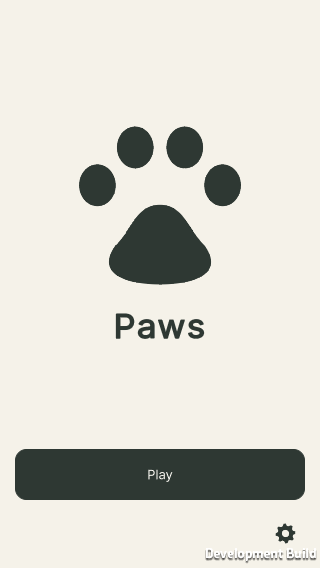
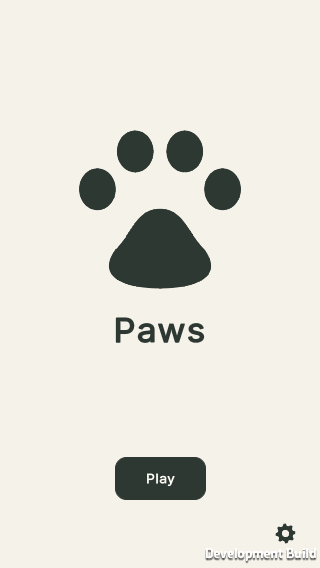
fix(menu): match Play to approved title width (#76)

diff --git a/UnityProject/Assets/CatsAndArrows/Tests/EditMode/MenuPresentationTests.cs b/UnityProject/Assets/CatsAndArrows/Tests/EditMode/MenuPresentationTests.cs
@@ -115,6 +115,14 @@ namespace CatsAndArrows.Tests
                 Assert.That(shell.Q("menu-languages"), Is.Null);
                 Assert.That(shell.Q("menu-paw").worldBound.yMax, Is.LessThan(shell.Q("menu-title").worldBound.yMin));
                 foreach (var name in new[] { "menu-start", "menu-settings" }) AssertTarget(shell.Q<Button>(name), safe);
+                var play = shell.Q<Button>("menu-start");
+                var title = shell.Q<Label>("menu-title");
+                var titleTextWidth = title.MeasureTextSize(title.text, 0, VisualElement.MeasureMode.Undefined,
+                    0, VisualElement.MeasureMode.Undefined).x;
+                Assert.That(play.worldBound.width, Is.EqualTo(titleTextWidth).Within(1), "Play matches Paws text width, excluding label padding");
+                Assert.That(play.worldBound.center.x, Is.EqualTo(title.worldBound.center.x).Within(1), "Play remains centered");
+                Assert.That(play.worldBound.height, Is.EqualTo(52).Within(1));
+                Assert.That(play.resolvedStyle.unityFontStyleAndWeight, Is.EqualTo(FontStyle.Bold));
                 var gear = shell.Q("menu-settings").worldBound;
                 Assert.That(gear.center.x, Is.GreaterThan(safe.center.x));
                 Assert.That(gear.yMax, Is.GreaterThan(safe.yMax - 8));

diff --git a/UnityProject/Assets/CatsAndArrows/UI/GameShellView.cs b/UnityProject/Assets/CatsAndArrows/UI/GameShellView.cs
@@ -264,7 +264,11 @@ namespace CatsAndArrows.UI
             footer.style.flexShrink = 0; footer.style.paddingBottom = 64;
             var play = MakeButton("menu-start", "game.start", StartPlaying);
             play.style.backgroundColor = BoardSymbolElement.Ink; play.style.color = PortraitBoardView.Tile;
-            play.style.height = 62;
+            play.style.height = 52;
+            play.style.alignSelf = Align.Center;
+            play.style.unityFontStyleAndWeight = FontStyle.Bold;
+            title.RegisterCallback<GeometryChangedEvent>(_ =>
+                play.style.width = title.MeasureTextSize(title.text, 0, MeasureMode.Undefined, 0, MeasureMode.Undefined).x);
             play.style.borderTopLeftRadius = play.style.borderTopRightRadius = 14;
             play.style.borderBottomLeftRadius = play.style.borderBottomRightRadius = 14;
             footer.Add(play);

diff --git a/docs/TESTING.md b/docs/TESTING.md
@@ -64,6 +64,17 @@ Repository validation, whitespace and all
 **36** Python runner contracts pass. Independent QA reports no blocking findings
 following code and native screenshot review.
 
+Owner-approved Play refinement (2026-10-20): button width matches the rendered
+Paws text, height is 52 logical units and its localized label is bold. Pinned
+compilation passed (`compile.Ys3uSL`), focused **72/72** passed
+(`issue76-focused.2MC6W5`), and required full EditMode **497/497** passed
+(`editmode.WY5AA9`), all with successful editor exits and no failed/skipped/
+inconclusive tests. Existing mounted checks additionally verify text-width match,
+centering, height and bold weight in all nine portrait/locale combinations.
+Independent QA reports no blocking findings. Home screenshots below were refreshed
+using the updated native review player (`issue76-review-build.YsRYyy`); its
+`--game-loop-check=1` smoke passed again, including actual mounted Play clicks.
+
 The macOS development review player built successfully
 (`issue76-review-build.9tLUA1`). Native `--game-loop-check=1`,
 `--tutorial-check=1` and SDK-free `--monetization-mock=1 --monetization-check=1`

diff --git a/docs/RELEASE.md b/docs/RELEASE.md
@@ -56,8 +56,8 @@ code remains excluded. The receipt also checks generated IL2CPP sources.
 
 `PawsBootstrap` starts the ordinary game with saved preferences, real safe area,
 normal tutorial/lifecycle and `monetization: null`. No providers initialize;
-Hints remain free and purchase UI hidden. This is the binary disabled/rollback
-configuration. Future enabled releases require separate approved real adapters
+Hints remain free; Settings shows unavailable purchase/restore rows (#76). This
+is the binary disabled/rollback configuration. Future enabled releases require separate approved real adapters
 and tests; reverting to this composition retains existing monetization storage
 and verified ownership. No remote kill switch is claimed.
 

diff --git a/docs/UX.md b/docs/UX.md
@@ -37,6 +37,10 @@ gear at bottom-right. Play resumes an in-memory ordinary/tutorial/completed boar
 with no live board it follows the existing first-Play policy. Next board remains
 the explicit fresh-board action. Navigation does not save boards across restarts.
 
+Owner-approved refinement (2026-10-20): the centered Play button matches the
+rendered Paws title width, uses bold text, and is 52 logical units tall (previously
+62). This preserves the 48-unit minimum target in all three locales.
+
 The gear opens a separate Settings screen with a small top-left Back action to
 Home and an extensible vertical scrolling list. Initial rows, in order: Language,
 Tutorial, Remove Ads, Restore Purchases. Language opens a compact selector whose
